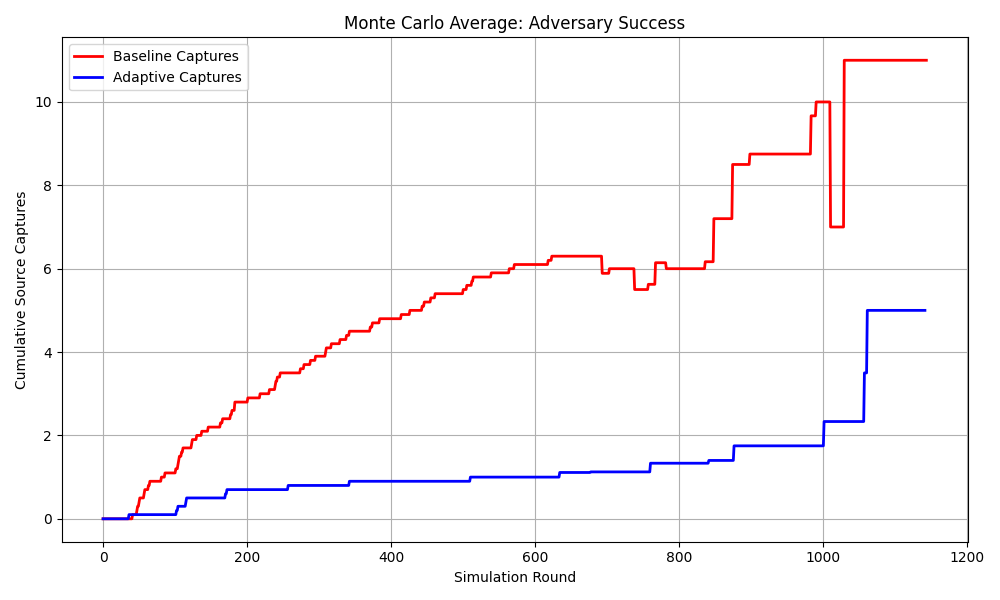
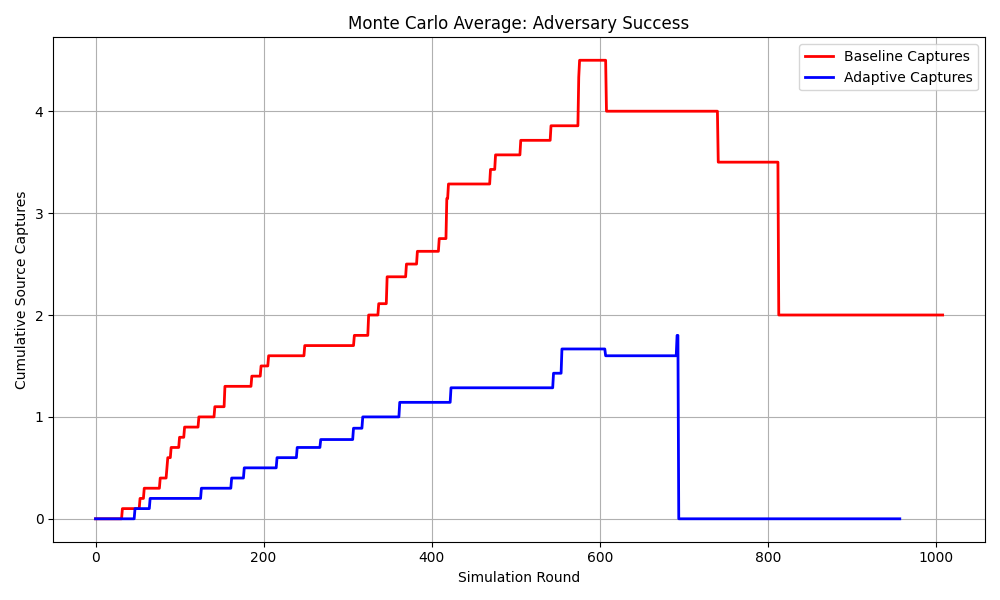
stress testing 2 - decreasing network density to 1500 nodes

diff --git a/baseline_network.py b/baseline_network.py
@@ -6,7 +6,7 @@ from scipy.spatial import cKDTree
 
 # Network Parameters
 AREA_SIZE = 2000
-NUM_NODES = 3000
+NUM_NODES = 1500
 COMM_RANGE = 80
 INITIAL_ENERGY = 0.5
 SINK_POS = (1000, 1000)

diff --git a/config.py b/config.py
@@ -1,6 +1,6 @@
 # config.py
 AREA_SIZE = 2000
-NUM_NODES = 3000
+NUM_NODES = 1500
 COMM_RANGE = 80
 INITIAL_ENERGY = 0.5
 SINK_POS = (1000, 1000)
